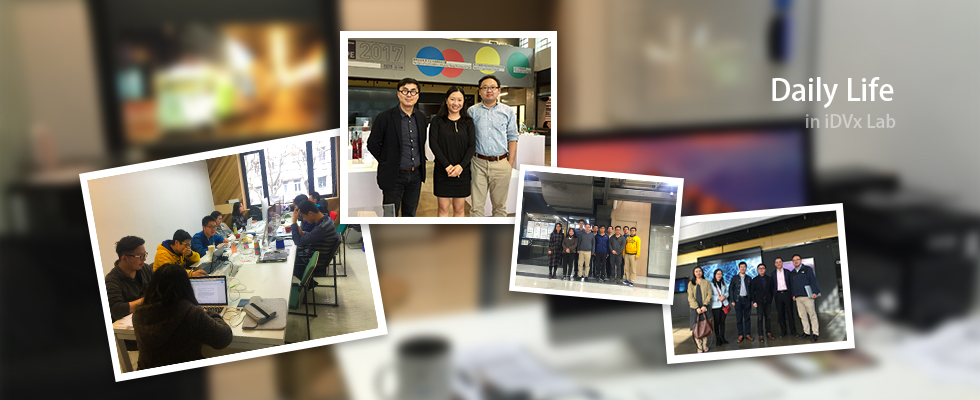
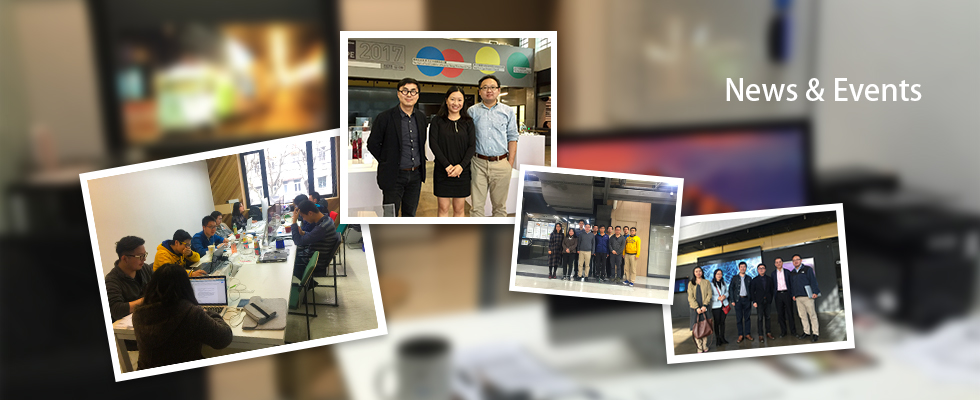
new teaser

Changed region(s): [[0.7347, 0.18, 0.949, 0.33]]

diff --git a/index.html b/index.html
@@ -48,7 +48,8 @@
         <ul class="bxslider">
 	      <li><a href="#"><img src="images/teaser1.jpg" alt="" title="Workshop on big data visualization." /></a></li>
 	      <li><a href="#"><img src="images/teaser2.jpg" alt="" title="News & Events" /></a></li>
-	      <li><a href="members.html"><img src="images/teaser3.jpg" alt="" title="Members" /></a></li>
+	      <li><a href="project.html"><img src="images/teaser3.jpg" alt="" title="Projects" /></a></li>
+	      <li><a href="members.html"><img src="images/teaser4.jpg" alt="" title="Members" /></a></li>
 <!--
           <li><img src="images/teaser1.jpg" alt="" title="Whisper: Tracing the Spatiotemporal Process of Information Diffusion in Real Time, IEEE InfoVis 2012" /></li>
           <li><img src="images/teaser2.jpg" alt="" title="SocialHelix: Visual Analysis of Sentiment Divergence in Social Media, Journal of Visualization, 2013" /></li>
